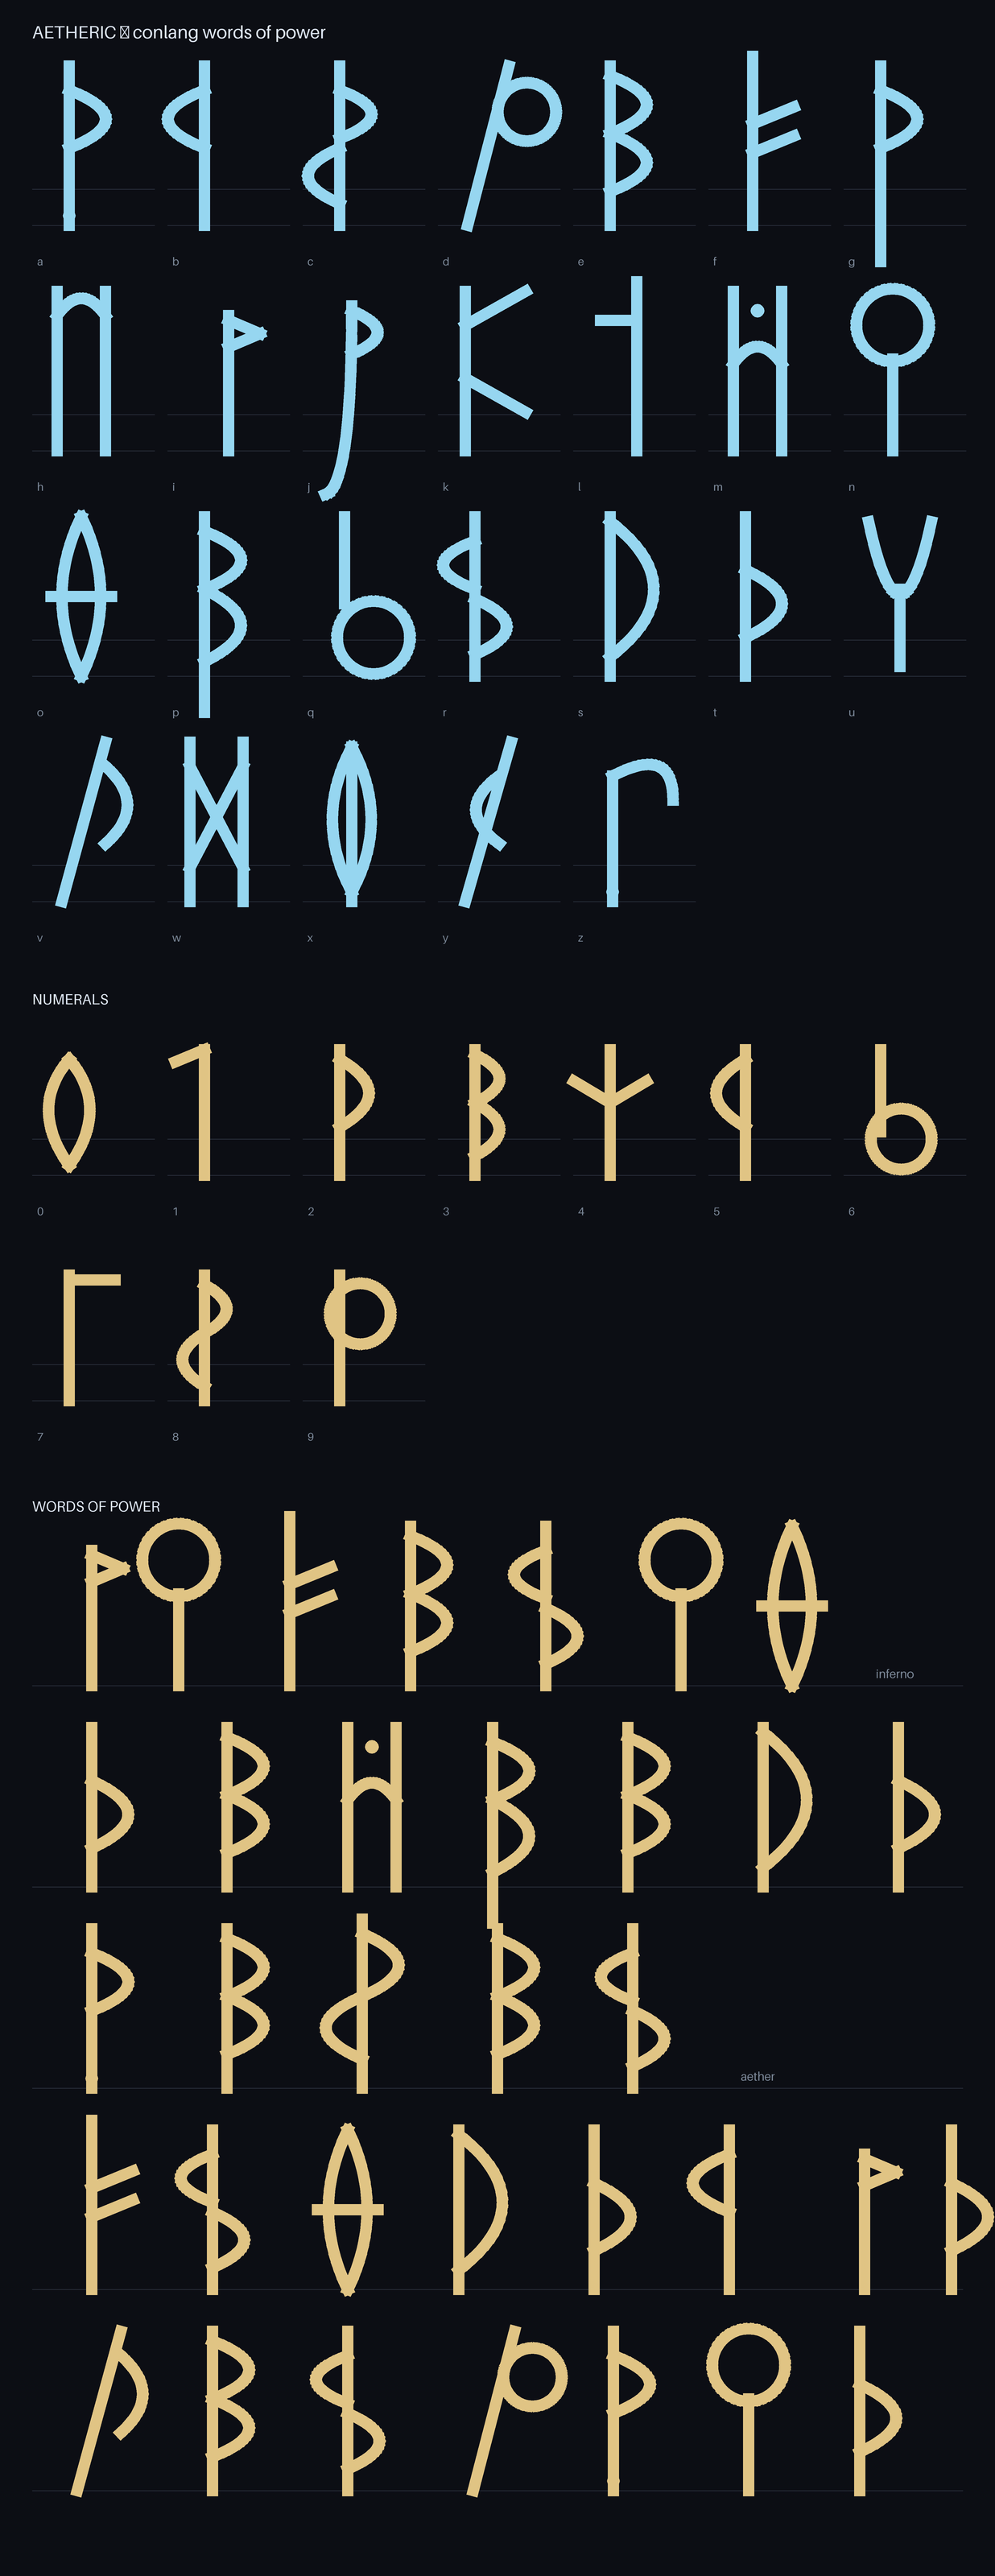
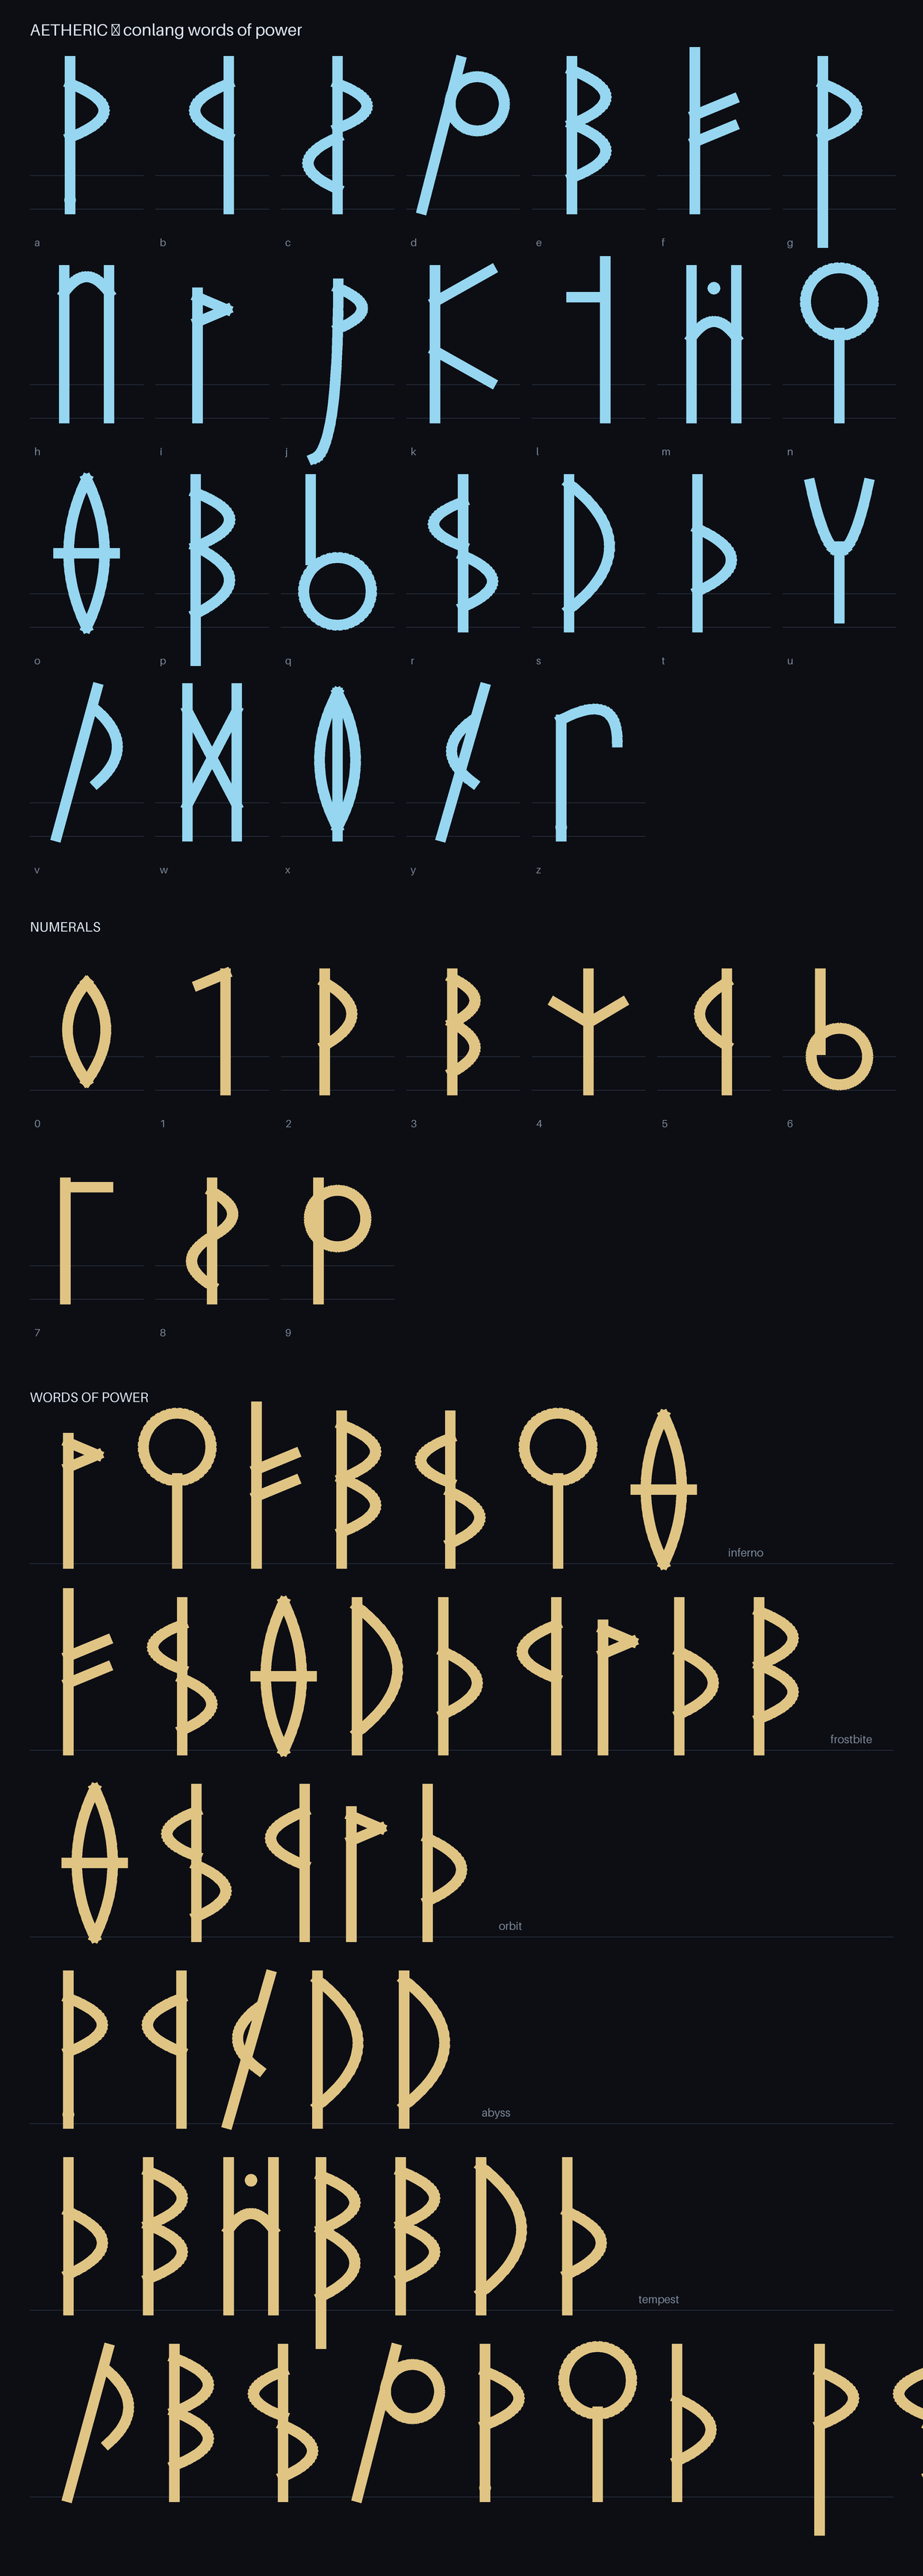
Fix uneven conlang letter spacing (ink-derived advances)
Glyph advance widths were hand-tuned and didn't track where each glyph's ink
actually sits, so glyphs carried wildly different left/right gaps — worst when a
left-bulging glyph (e.g. b, whose bow bulges left) was followed by a
left-hugging one (e.g. i): the leftover advance read as a near-space.

Derive every glyph's advance from its actual ink bounds plus a uniform side
bearing on both sides, shifting each outline so the left bearing is constant.
Every glyph now spaces evenly; drop the obsolete WIDE/ADV table. Regenerate the
font + specimen (specimen adds b-pair words: frostbite, orbit, abyss).

Claude-Session: https://claude.ai/code/session_01N6YXuczgoVKAVnC856Pj4F

Pull request: Fix uneven conlang letter spacing (ink-derived advances)
## What

Fixes uneven letter spacing in the Aetheric conlang font — the gaps you spotted that "almost look like spaces," worst on `b` followed by `i`.

![Aetheric specimen](https://github.com/ginderjeremiah/gameserver/blob/claude/conlang-glyph-spacing/UI/scripts/conlang/specimen.png?raw=true)

## Root cause

Advance widths were hand-tuned in a `WIDE` table (default `560`) and didn't track where each glyph's ink actually sits. `b` is a stem with a bow bulging **left**, so its ink ends around x≈200 but its advance ran to 560 — leaving a ~360-unit gap on the right. The next glyph (`i`) then added its own left gap on top, so the pair read as a word space.

## Fix

Derive every glyph's advance from its **actual ink bounds plus a uniform side bearing** (75 units) on both sides, shifting each outline so the left bearing is constant. Now every glyph carries the same left/right gap and words space evenly. The obsolete `WIDE`/`ADV` table is gone.

- `generate_font.py`: `normalized()` computes the ink bbox, shifts the outline to a fixed left bearing, and sets `advance = inkWidth + 2·sideBearing`. Advances dropped from a flat 560 to a consistent ~340–500 that matches each glyph.
- `render_specimen.py`: uses the same `normalized()` metrics, so the specimen faithfully reflects the shipped spacing; added `frostbite` / `orbit` / `abyss` to exercise the `b`-pair cases.
- Regenerated `Aetheric.woff2` (still ~5 KB).
[…]

diff --git a/UI/scripts/conlang/generate_font.py b/UI/scripts/conlang/generate_font.py
@@ -25,7 +25,6 @@ UPM = 1000
 CAP = 700
 DESC = -200
 WIDTH = 46          # default stroke thickness (font units)
-ADV = 560           # default advance width
 
 # ---- primitives (unit coords, y-up, baseline 0) ----
 def ln(a, b):
@@ -169,16 +168,32 @@ PUNCT = {
 CMAP_PUNCT = {ord('.'): 'period', ord(','): 'comma', ord('!'): 'exclam',
               ord('?'): 'question', ord('-'): 'hyphen', ord(':'): 'colon', ord("'"): 'apostrophe'}
 
-# per-glyph advance overrides (narrower/wider than the ADV default)
-WIDE = {'i': 360, 'j': 460, 'l': 440, 'o': 460, 'x': 460, 'n': 460,
-        'h': 540, 'm': 540, 'w': 540, 'k': 520, 'f': 500,
-        'u': 540, 'q': 520, 'd': 540, 'v': 500, 'z': 540, 'y': 500}
-
 LIGATURE_PAIRS = (('t', 'h'), ('s', 'h'), ('c', 'h'), ('n', 'g'), ('p', 'h'), ('k', 'h'))
+
+# Spacing. Advance widths are derived from each glyph's actual ink bounds plus a
+# uniform side bearing on both sides — so every glyph carries the same left/right
+# gap and words space evenly. (A hand-tuned advance table previously left large
+# gaps wherever a glyph's ink sat far from its advance box, e.g. b's left-bulging
+# bow read as a near-space before the following letter.)
+SIDE_BEARING = 75
+SPACE_ADV = 280
+
+def _ink_bounds_x(contours):
+    xs = [p[0] for c in contours if len(c) >= 3 for p in c]
+    return (min(xs), max(xs)) if xs else None
+
+def normalized(contours, sb=SIDE_BEARING):
+    """Shift contours so their ink starts at the side bearing; return (contours, advance)."""
+    bounds = _ink_bounds_x(contours)
+    if bounds is None:
+        return contours, SPACE_ADV
+    minx, maxx = bounds
+    dx = sb - minx
+    shifted = [[(x + dx, y) for (x, y) in c] for c in contours]
+    return shifted, round((maxx - minx) + 2 * sb)
 
 def _pen(contours):
     pen = TTGlyphPen(None)
-    xs = []
     for c in contours:
         if len(c) < 3:
             continue
@@ -186,36 +201,36 @@ def _pen(contours):
         for pt in c[1:]:
             pen.lineTo((round(pt[0]), round(pt[1])))
         pen.closePath()
-        xs += [p[0] for p in c]
-    return pen.glyph(), (round(min(xs)) if xs else 0)
+    return pen.glyph()
 
 def _font():
     a = alphabet()
     glyphs, metrics, cmap, order = {}, {}, {}, ['.notdef']
 
-    def add(name, contours, codepoints=(), adv=ADV):
-        g, lsb = _pen(contours)
-        glyphs[name] = g
-        metrics[name] = (adv, lsb)
+    def add(name, contours, codepoints=()):
+        shifted, advance = normalized(contours)
+        glyphs[name] = _pen(shifted)
+        metrics[name] = (advance, SIDE_BEARING)
         order.append(name)
         for cp in codepoints:
             cmap[cp] = name
 
-    glyphs['.notdef'], _ = _pen([ring(300, 360, 180, 300)])
-    metrics['.notdef'] = (ADV, 0)
+    notdef_shifted, notdef_adv = normalized([ring(300, 360, 180, 300)])
+    glyphs['.notdef'] = _pen(notdef_shifted)
+    metrics['.notdef'] = (notdef_adv, SIDE_BEARING)
     glyphs['space'] = TTGlyphPen(None).glyph()
-    metrics['space'] = (ADV, 0)
+    metrics['space'] = (SPACE_ADV, 0)
     order.append('space')
     cmap[0x20] = 'space'
 
     for ch, contours in a.items():
-        add('cl_' + ch, contours, (ord(ch), ord(ch.upper())), WIDE.get(ch, ADV))
+        add('cl_' + ch, contours, (ord(ch), ord(ch.upper())))
     for ch, contours in DIGITS.items():
         add('cl_d' + ch, contours, (ord(ch),))
     for name, contours in PUNCT.items():
         add(name, contours, [cp for cp, n in CMAP_PUNCT.items() if n == name])
     for lg, contours in LIGS.items():
-        add('cl_' + lg, contours, (), WIDE.get(lg[0], ADV))
+        add('cl_' + lg, contours, ())
 
     fb = FontBuilder(UPM, isTTF=True)
     fb.setupGlyphOrder(order)

diff --git a/UI/scripts/conlang/render_specimen.py b/UI/scripts/conlang/render_specimen.py
@@ -24,9 +24,6 @@ A = gf.alphabet()
 def lab(size):
     return ImageFont.load_default(size=size * SS)
 
-def advance(ch):
-    return gf.WIDE.get(ch, gf.ADV)
-
 class Canvas:
     def __init__(self, draw):
         self.d = draw
@@ -45,16 +42,17 @@ def draw_glyph(c, contours, ox, baseline, color, scale):
             c.poly([(ox + x * scale, baseline - y * scale) for x, y in ct], color)
 
 def shape(text):
-    """Greedy digraph -> ligature shaper. Yields (contours|None, advance)."""
+    """Greedy digraph -> ligature shaper. Yields (shifted_contours|None, advance),
+    using the same ink-normalized metrics the font ships with."""
     out, i, t = [], 0, text.lower()
     while i < len(t):
         two = t[i:i + 2]
         if two in gf.LIGS:
-            out.append((gf.LIGS[two], advance(two[0]))); i += 2
+            out.append(gf.normalized(gf.LIGS[two])); i += 2
         elif t[i] == ' ':
-            out.append((None, gf.ADV * 0.5)); i += 1
+            out.append((None, gf.SPACE_ADV)); i += 1
         elif t[i] in A:
-            out.append((A[t[i]], advance(t[i]))); i += 1
+            out.append(gf.normalized(A[t[i]])); i += 1
         else:
             i += 1
     return out
@@ -63,7 +61,7 @@ def main():
     cols, cw, ch = 7, 168, 280
     rows_a = (26 + cols - 1) // cols
     rows_d = (10 + cols - 1) // cols
-    words = ['inferno', 'tempest', 'aether', 'frostbite', 'verdant grove']
+    words = ['inferno', 'frostbite', 'orbit', 'abyss', 'tempest', 'verdant grove']
     scale = 0.30
     w = 40 + cols * cw + 20
     h = 90 + rows_a * ch + 60 + rows_d * ch + 80 + len(words) * 250 + 40
@@ -73,9 +71,10 @@ def main():
 
     def cell(contours, label, gx, gy, color):
         base = gy + 200
+        shifted, adv = gf.normalized(contours)
         c.line([(gx, base), (gx + cw - 16, base)], GUIDE, 1)
         c.line([(gx, base + gf.DDEPTH * scale), (gx + cw - 16, base + gf.DDEPTH * scale)], GUIDE, 1)
-        draw_glyph(c, contours, gx + (cw - 16 - advance(label) * scale) / 2, base, color, scale)
+        draw_glyph(c, shifted, gx + (cw - 16 - adv * scale) / 2, base, color, scale)
         c.text((gx + 6, base + 36), label, 14, LABEL)
 
     y0 = 80